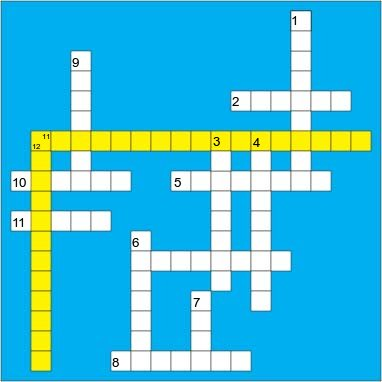
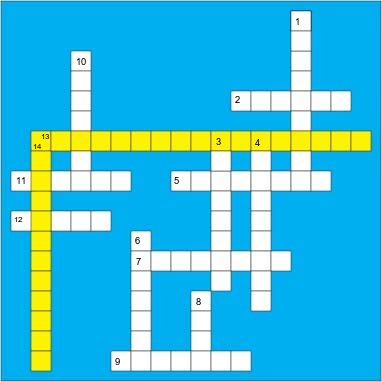
Added game data

diff --git a/Mystery Cross 4/solve.py b/Mystery Cross 4/solve.py
@@ -1,0 +1,49 @@
+#!/usr/bin/env python
+import sys
+import pprint
+import re
+
+intersecting_letters = list("AAACEGHIMRRSSUUVZ")
+intersecting_spaces = [ \
+    (14,4), (1,6), (3,6), (10,6), (12,6), (14,6), (14,8), (12,8), (10,8), (3,8), \
+    (1,8), (1,10), (6,12), (10,12), (12,12), (9,17), (6,17) ]
+non_intersecting_letters = \
+    list("AAAAAAAAAAABBBCCDEEEEEEEEEEFGGGIIIIIIILLLLLMNNNNNNOOOOOOOPPRRRRRSTTTTUUUUUUVYYY")
+
+slots = { 
+     '1': { 'direction': 'down',   'x':14, 'y':0,  'length':9  },
+     '2': { 'direction': 'across', 'x':11, 'y':4,  'length':6  },
+     '3': { 'direction': 'down',   'x':10, 'y':6,  'length':8  },
+     '4': { 'direction': 'down',   'x':12, 'y':6,  'length':9  },
+     '5': { 'direction': 'across', 'x':8,  'y':8,  'length':8  },
+     '6': { 'direction': 'down',   'x':6,  'y':11, 'length':7  },
+     '7': { 'direction': 'across', 'x':6,  'y':12, 'length':8  },
+     '8': { 'direction': 'down',   'x':9,  'y':14, 'length':4  },
+     '9': { 'direction': 'across', 'x':5,  'y':17, 'length':7  },
+    '10': { 'direction': 'down',   'x':3,  'y':2,  'length':7  },
+    '11': { 'direction': 'across', 'x':0,  'y':8,  'length':6  },
+    '12': { 'direction': 'across', 'x':0,  'y':10, 'length':5  },
+    '13': { 'direction': 'across', 'x':1,  'y':6,  'length':17 },
+    '14': { 'direction': 'down',   'x':1,  'y':6,  'length':12 },
+    }
+
+def read_wordlist(words_file='/usr/share/dict/words'):
+    wordlist=[]
+    valid_re=re.compile('^[a-z]+$')
+    for word in open(words_file):
+        if valid_re.match(word):
+            wordlist.append(word.strip())
+    return wordlist
+
+def print_board(board):
+    for x in range(0,len(board)):
+        for y in range(0,len(board[x])):
+            sys.stdout.write(board[x][y])
+        print
+
+if __name__ == '__main__':
+    wordlist = read_wordlist()
+
+    board = [ list(" " * 18) for _ in range(18) ]
+    #print_board(board)
+    #pprint.pprint(board)
